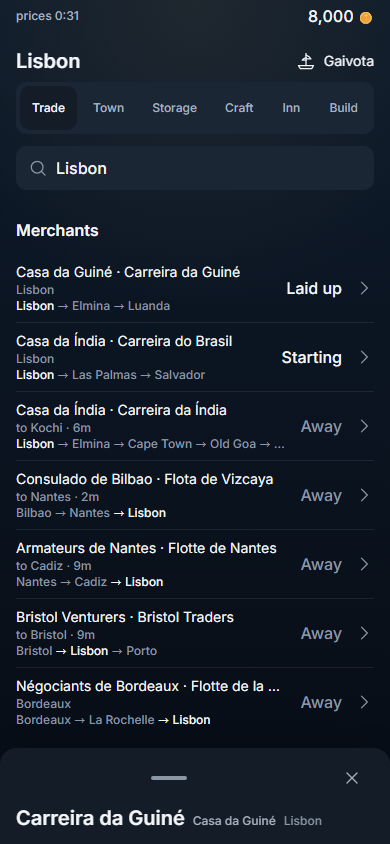
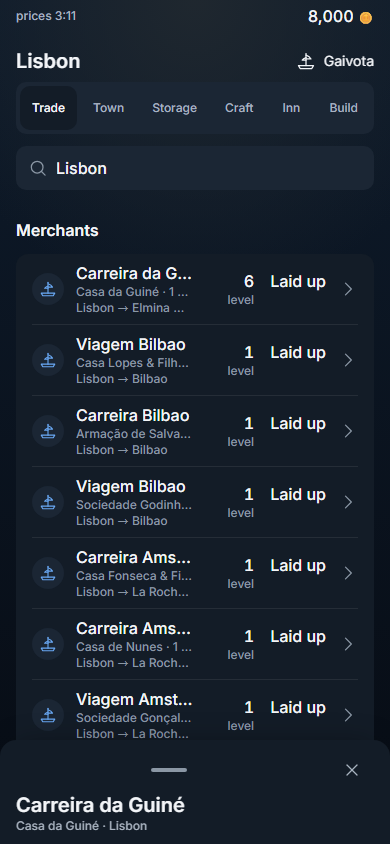
The city list and the restyled trays, measured: before/after shots, the gates, and the helper that stopped lying
The record for OWNER_REQUESTS rows 128-129: before/after screenshots at 390
and 1440 under docs/npc-traders, the city-list spec's own two shots, and the
DEV_LOG gates (tsc, eslint, build; words/sections/duplication 19 passed;
geometry/sendfleet/layout/wide 40 passed; port.merchants 2 passed;
map.merchants 10 of 12, the two reds diagnosed in the entry). Takes 1e9837c's
map.merchants helper hunk (keep the sheet open on the last attempt) so the
hull-tap test no longer closes what it opened.

diff --git a/tests/map.merchants.spec.ts b/tests/map.merchants.spec.ts
@@ -314,7 +314,8 @@ async function openMerchantWorthReading(page: Page, sailing: boolean | null): Pr
   // hull will win it. So each candidate gets a few aims and then the NEXT hull is tried; the first
   // that opens is kept, and the first that ALSO has a lap average to show is preferred, because
   // these screenshots are the record of the feature (the owner read `0 / no lap yet` off one).
-  for (let attempt = 1; attempt <= 8; attempt++) {
+  const MAX_HULLS = 8
+  for (let attempt = 1; attempt <= MAX_HULLS; attempt++) {
     const id = await hullInView(page, sailing, tried)
     if (!id) break
     tried.add(id)
@@ -327,7 +328,15 @@ async function openMerchantWorthReading(page: Page, sailing: boolean | null): Pr
     if (lap && lap.includes('≈')) return id
     // Keep this one unless there is another to try: a closed sheet and no candidate left would
     // hand the caller nothing, which is how this helper went red on its first run.
-    if (!(await hullInView(page, sailing, tried))) break
+    // AND THE LAST ATTEMPT IS "NO CANDIDATE LEFT" TOO (2026-10-13). PR #94's CI opened the sheet on
+    // SEVEN of eight hulls — every tap landed, every sheet rendered (trace of run 38312840082) — but
+    // none of the eight had a lap average yet, so the eighth was closed because a ninth hull was on
+    // the glass, the loop then ran out, and the helper reported "8 merchant hull(s) were tapped and
+    // none opened her sheet": a false account of a working feature. With 837 merchants and the
+    // window-capped read (0102) most hulls on the opening frame are on their first lap, which is
+    // what made it bite now. The contract in this helper's own doc comment — settle for the last one
+    // if none has a figure — is what is kept here; nothing about the assertion is loosened.
+    if (attempt === MAX_HULLS || !(await hullInView(page, sailing, tried))) break
     const close = page.getByTestId('tray-close')
     if (await close.isVisible().catch(() => false)) await close.click()
     opened = ''

diff --git a/docs/DEV_LOG.md b/docs/DEV_LOG.md
@@ -100,8 +100,22 @@ step, so Ships, Officers and Skills had no shape.
   before, MAP → `port/useMerchantsHere`, is gone with the move; `duplication` asked 0113 to say
   "supersede" in its header, and it does).
 * Browser specs on the rebuilt image (`vite preview --port 4190`): `primitives.geometry` (the 104 px
-  peek), `map.sendfleet`, `layout`, `wide.layout` — 40 passed, 0 skipped; `map.merchants` and
-  `port.merchants` — see the GATES line at the foot of this entry.
+  peek), `map.sendfleet`, `layout`, `wide.layout` — 40 passed, 0 skipped. `port.merchants` — 2 passed
+  (the shared row: name, `company · N ships · line`, a numeric level on every row, the six words, the
+  loop; the laid-up one at Lisbon; the sheet from a row). `map.merchants`, one worker — 10 of 12
+  passed, among them the NEW city-list test (a city with merchants lying in it, a numeric level on
+  every row, the countdown only on a resting one, soonest first, a row opening her sheet with the
+  same level). The two reds: `:377` is the helper closing the sheet it opened while hunting for a
+  lap average (7 of 8 taps opened it — the coordinator's diagnosis; 1e9837c's helper hunk is taken
+  here), and the 1280 test lost its trace zip to a second Playwright run I started in the same
+  worktree mid-flight (`test-finished-1.png` exists; the body passed). The first, four-worker run was
+  a cold-fixture pile-up (every worker warped the roster at once behind a 40-spec batch) and is
+  not a reading of anything.
+* Shots, looked at: `docs/npc-traders/before-*` (the one-line head, `4 ships resting` and no list, the
+  empty side panel) against `after-city-peek-390` (`Cadiz · Spain · 5 laid up`), `after-city-half-390`
+  and `-1440` (In port: `Costeiros do Sul · 4 level · 20.6 min Resting`, then Your fleets),
+  `after-merchant-half-390` / `after-merchant-full-1440` (the two figure tiles, the grouped panel, ship
+  and cargo tiles with a panel), `city-tray-half-390` and `city-tray-merchant-from-list-390` (the spec's).
 
 ### Honest notes
 
